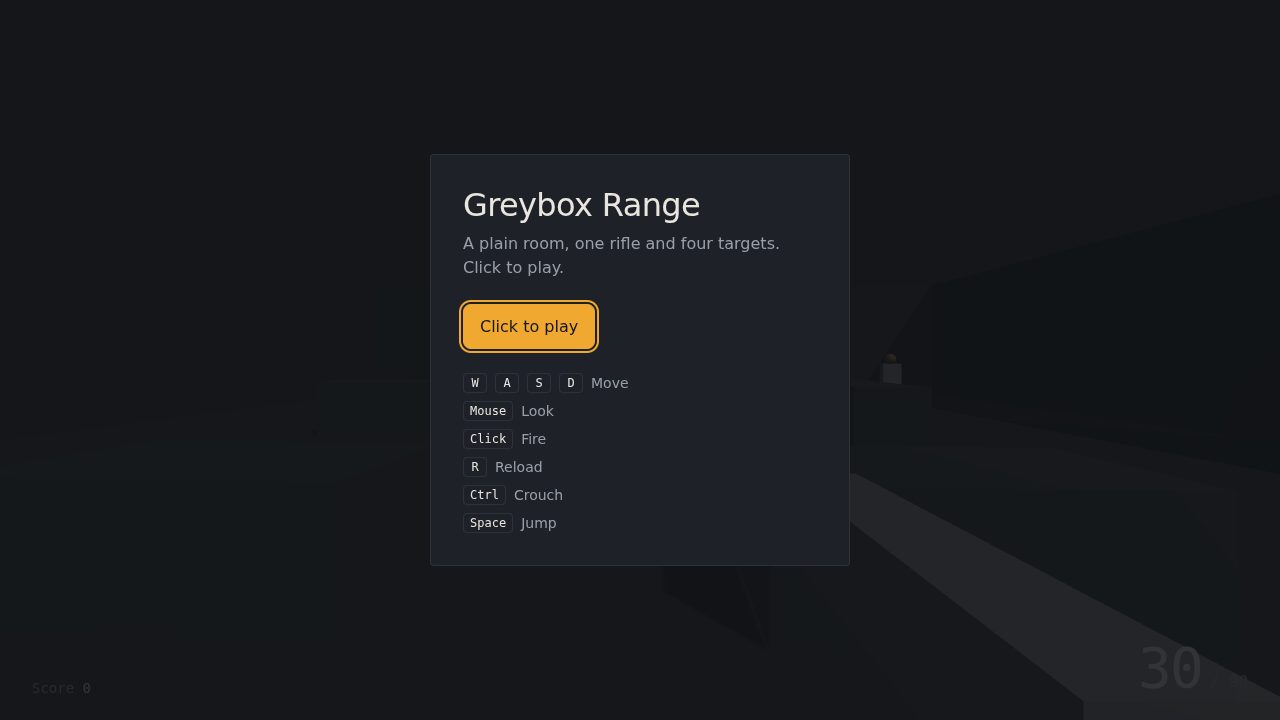
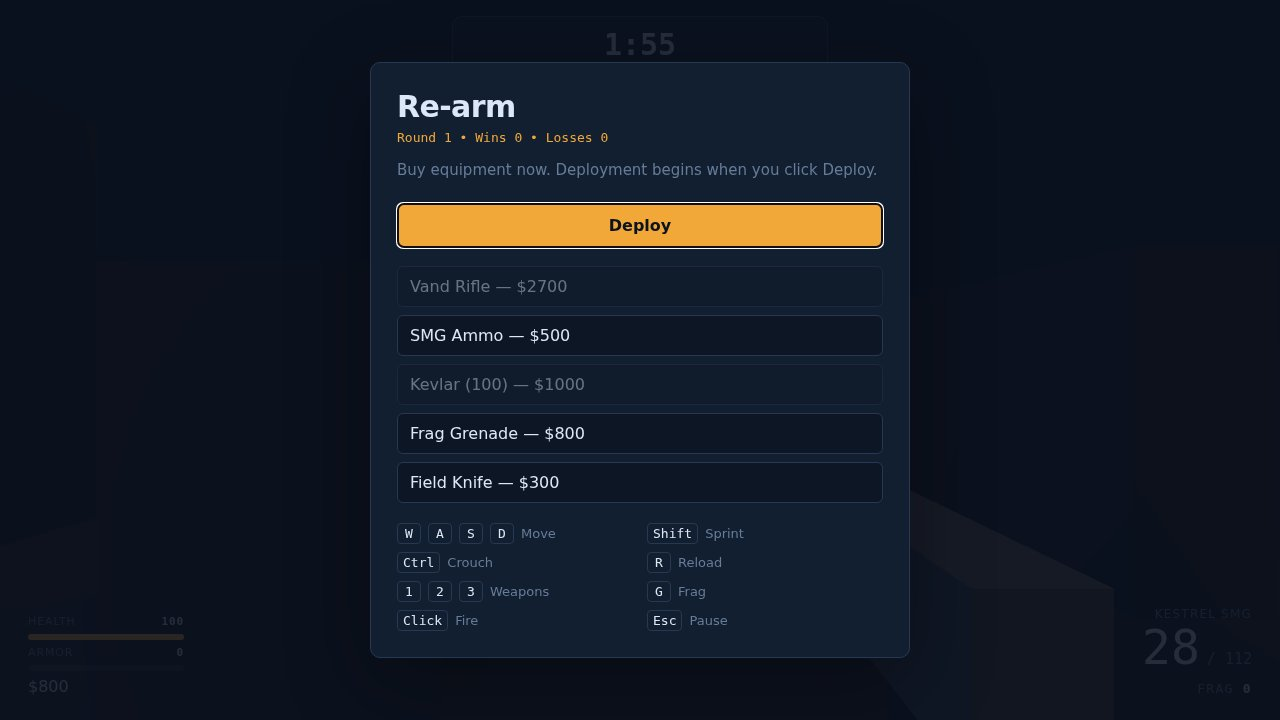
lighting fix + screenshots

diff --git a/game/src/world.js b/game/src/world.js
@@ -11,7 +11,7 @@ export function createWorld(scene) {
   for (const name of Object.keys(PALETTE)) {
     materials[name] = new THREE.MeshStandardMaterial({
       color: new THREE.Color(PALETTE[name]),
-      roughness: name === 'accent' || name === 'ink' ? 0.55 : 0.92,
+      roughness: name === 'accent' || name === 'ink' ? 0.48 : 0.78,
       metalness: 0.03,
     });
   }
@@ -141,12 +141,12 @@ export function createWorld(scene) {
   siteLabel('A', -11, -10);
   siteLabel('B', 11, 10);
 
-  scene.fog = new THREE.FogExp2(new THREE.Color('#070d16'), 0.032);
+  scene.fog = new THREE.FogExp2(new THREE.Color('#536a88'), 0.022);
 
-  const sky = new THREE.HemisphereLight(new THREE.Color('#15263f'), new THREE.Color(PALETTE.canvas), 0.42);
+  const sky = new THREE.HemisphereLight(new THREE.Color('#a9c1e8'), new THREE.Color(PALETTE.canvas), 1.35);
   scene.add(sky);
 
-  const key = new THREE.DirectionalLight(new THREE.Color(PALETTE.accent), 1.05);
+  const key = new THREE.DirectionalLight(new THREE.Color('#f8c675'), 1.6);
   key.position.set(12, 16, 9);
   key.target.position.set(0, 0, 0);
   key.castShadow = true;
@@ -159,15 +159,15 @@ export function createWorld(scene) {
   key.shadow.bias = -0.0006;
   scene.add(key, key.target);
 
-  const fill = new THREE.DirectionalLight(new THREE.Color(PALETTE.ink), 0.38);
+  const fill = new THREE.DirectionalLight(new THREE.Color(PALETTE.ink), 0.72);
   fill.position.set(-10, 12, -8);
   scene.add(fill);
 
-  const rim = new THREE.DirectionalLight(new THREE.Color('#8fb7e5'), 0.22);
+  const rim = new THREE.DirectionalLight(new THREE.Color('#8fb7e5'), 0.48);
   rim.position.set(-14, 9, 10);
   scene.add(rim);
 
-  for (const [x, z, intensity] of [[-11, -10, 20], [11, 10, 20], [0, 0, 10]]) {
+  for (const [x, z, intensity] of [[-11, -10, 30], [11, 10, 30], [0, 0, 16]]) {
     const lamp = new THREE.PointLight(new THREE.Color(PALETTE.accent), intensity, 13, 1.8);
     lamp.position.set(x, 3.2, z);
     group.add(lamp);

diff --git a/game/src/palette.js b/game/src/palette.js
@@ -1,9 +1,9 @@
-// Nightfall's visual language: deep navy architecture with amber tactical accents.
+// Nightfall's visual language: readable blue-grey architecture with amber tactical accents.
 // The same six names are the CSS custom properties in index.html.
 export const PALETTE = {
-  canvas: '#0b1220',
-  surface: '#122031',
-  hairline: '#263854',
+  canvas: '#3c4c62',
+  surface: '#52647d',
+  hairline: '#7c8fab',
   ink: '#dce8f8',
   muted: '#667c99',
   accent: '#f2a838',
